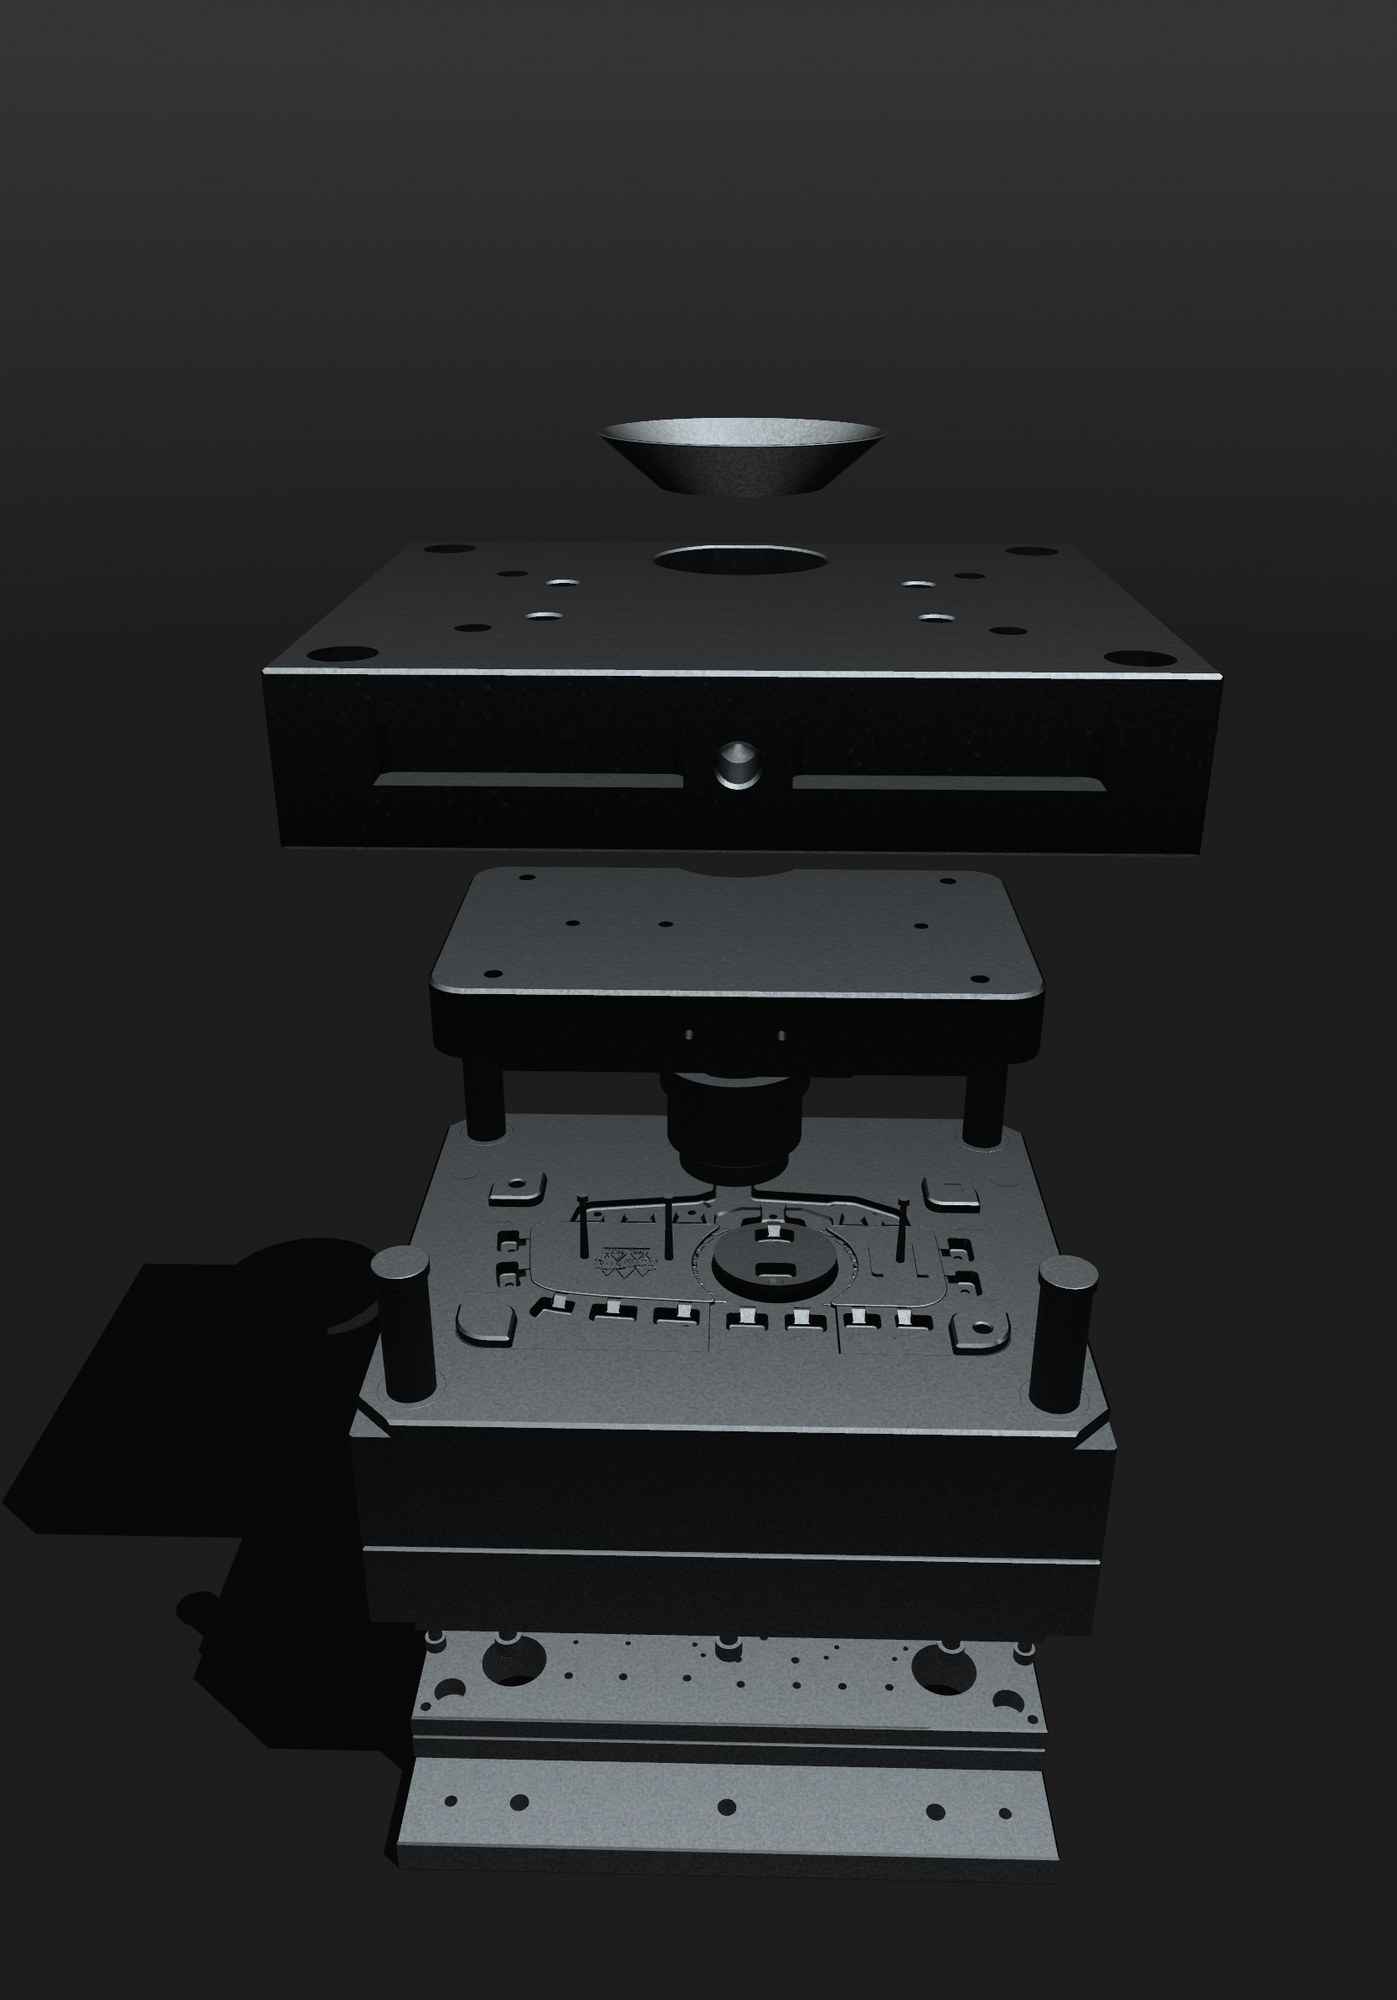
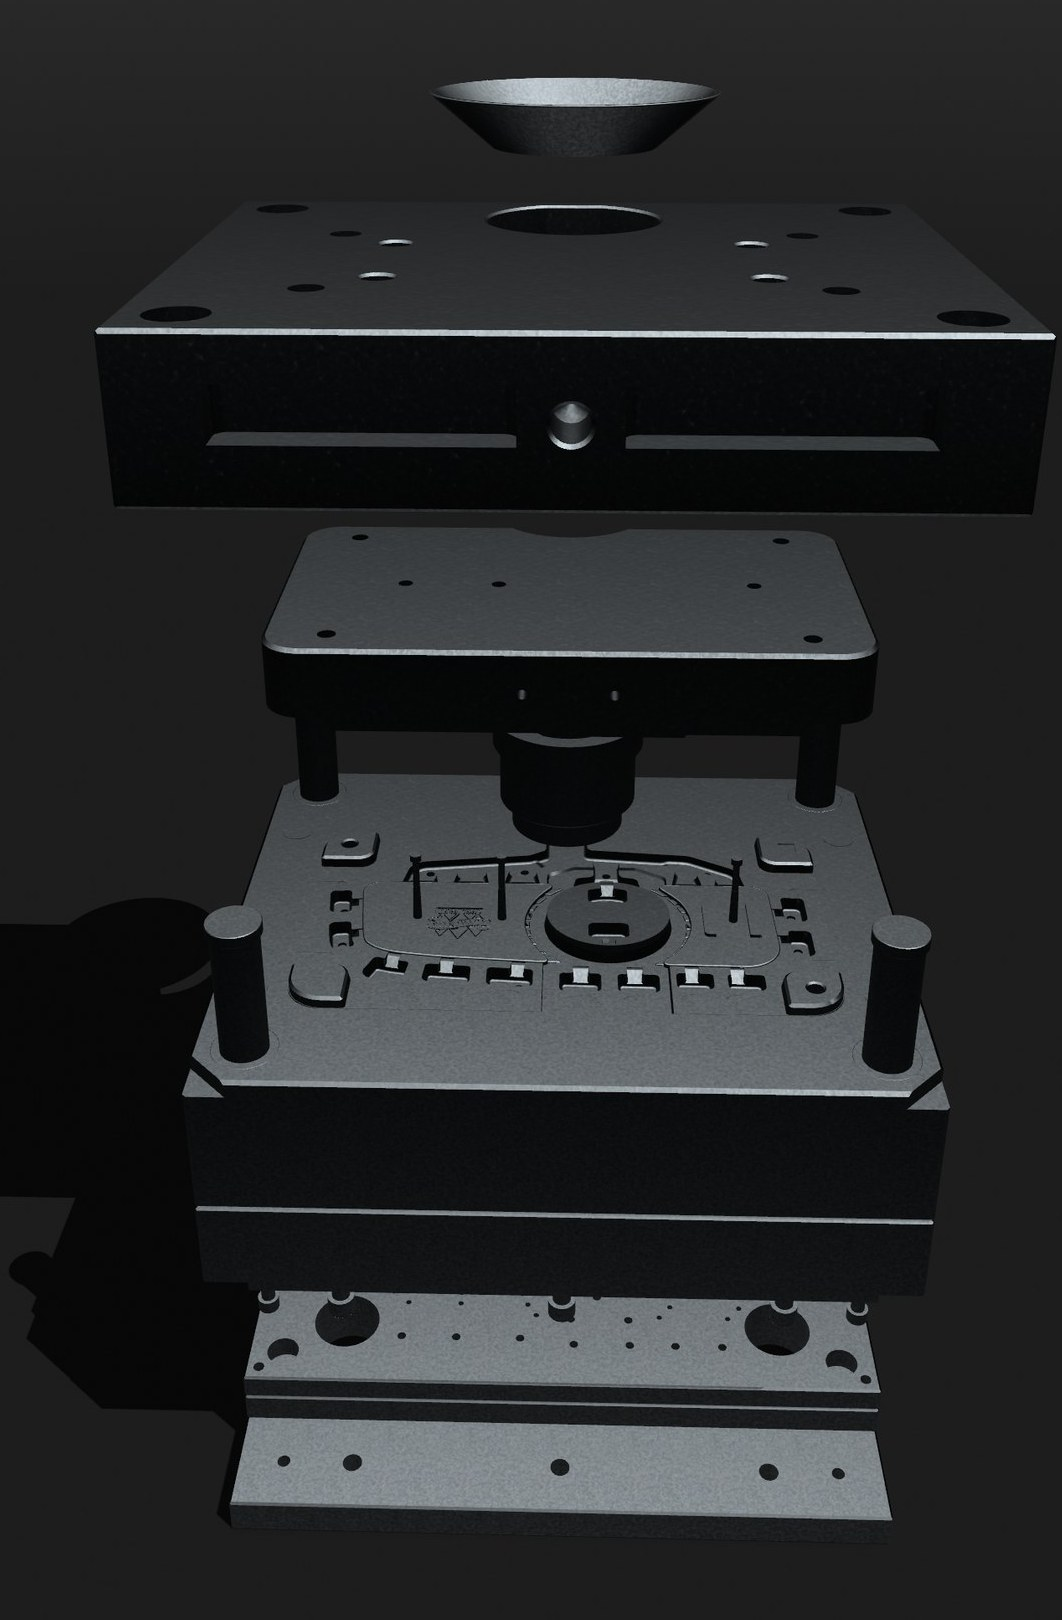
Réalisations : recadrage vue éclatée du moule, rendu grille d'origine conservé
Claude-Session: https://claude.ai/code/session_01MsBrymcWJCuajcWFMuCtRQ

diff --git a/src/content/realisations/grille-ajouree.md b/src/content/realisations/grille-ajouree.md
@@ -10,7 +10,7 @@ photos:
     alt: La même grille finie en noir, avec ses lamelles parallèles et la bague du compteur d’un seul tenant
   - src: ../../assets/realisations/grille-coccinelle-rendu.png
     alt: Rendu 3D de la grille de compteur, vue de face avec la bague centrale et les lamelles
-  - src: ../../assets/realisations/grille-coccinelle-rendu-detail.png
+  - src: ../../assets/realisations/grille-coccinelle-rendu-detail.jpg
     alt: Rendu 3D en vue arrière montrant la bague du compteur et l’attache des lamelles
 typeProjet: "Pièce d’habillage automobile sur mesure"
 besoin: "Refaire la grille de compteur du tableau de bord d’une Coccinelle, à poser autour du compteur d’origine."
